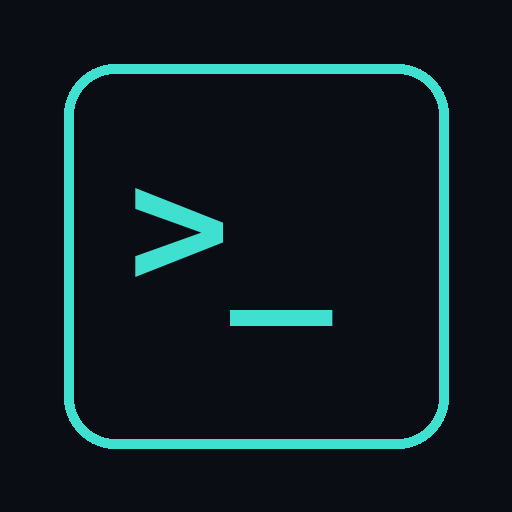
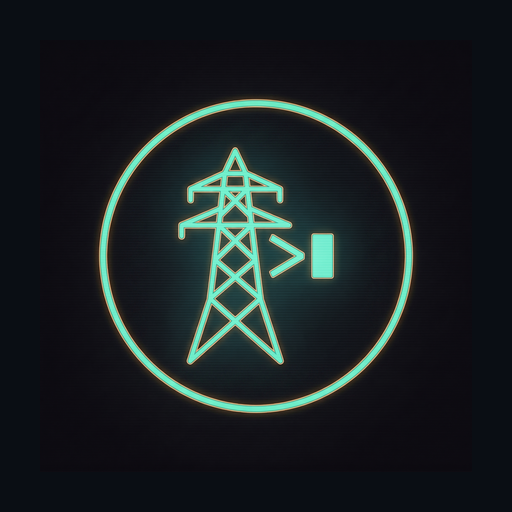
docs: add final Ptylon brand assets

Changed region(s): [[0.1875, 0.1875, 0.8125, 0.8125], [0.125, 0.125, 0.875, 0.875]]

diff --git a/README.md b/README.md
@@ -1,3 +1,7 @@
+<p align="center">
+  <img src="docs/images/ptylon-logo.png" alt="Ptylon logo" width="140" />
+</p>
+
 # Ptylon
 
 > A self-hosted, browser-native terminal workspace — Termius in a browser tab.
@@ -6,7 +10,7 @@
 [![Node.js 22+](https://img.shields.io/badge/node-22%2B-339933?logo=node.js&logoColor=white)](https://nodejs.org/)
 [![License: MIT](https://img.shields.io/badge/License-MIT-yellow.svg)](LICENSE)
 
-![Ptylon workspace with persistent terminal panes](docs/images/ptylon-workspace.png)
+![Ptylon server-hall terminal workspace](docs/images/ptylon-hero.png)
 
 **Ptylon** brings persistent terminals, browser tools, files, editing, and
 workspaces into one browser tab. It is designed for a server you control—not a